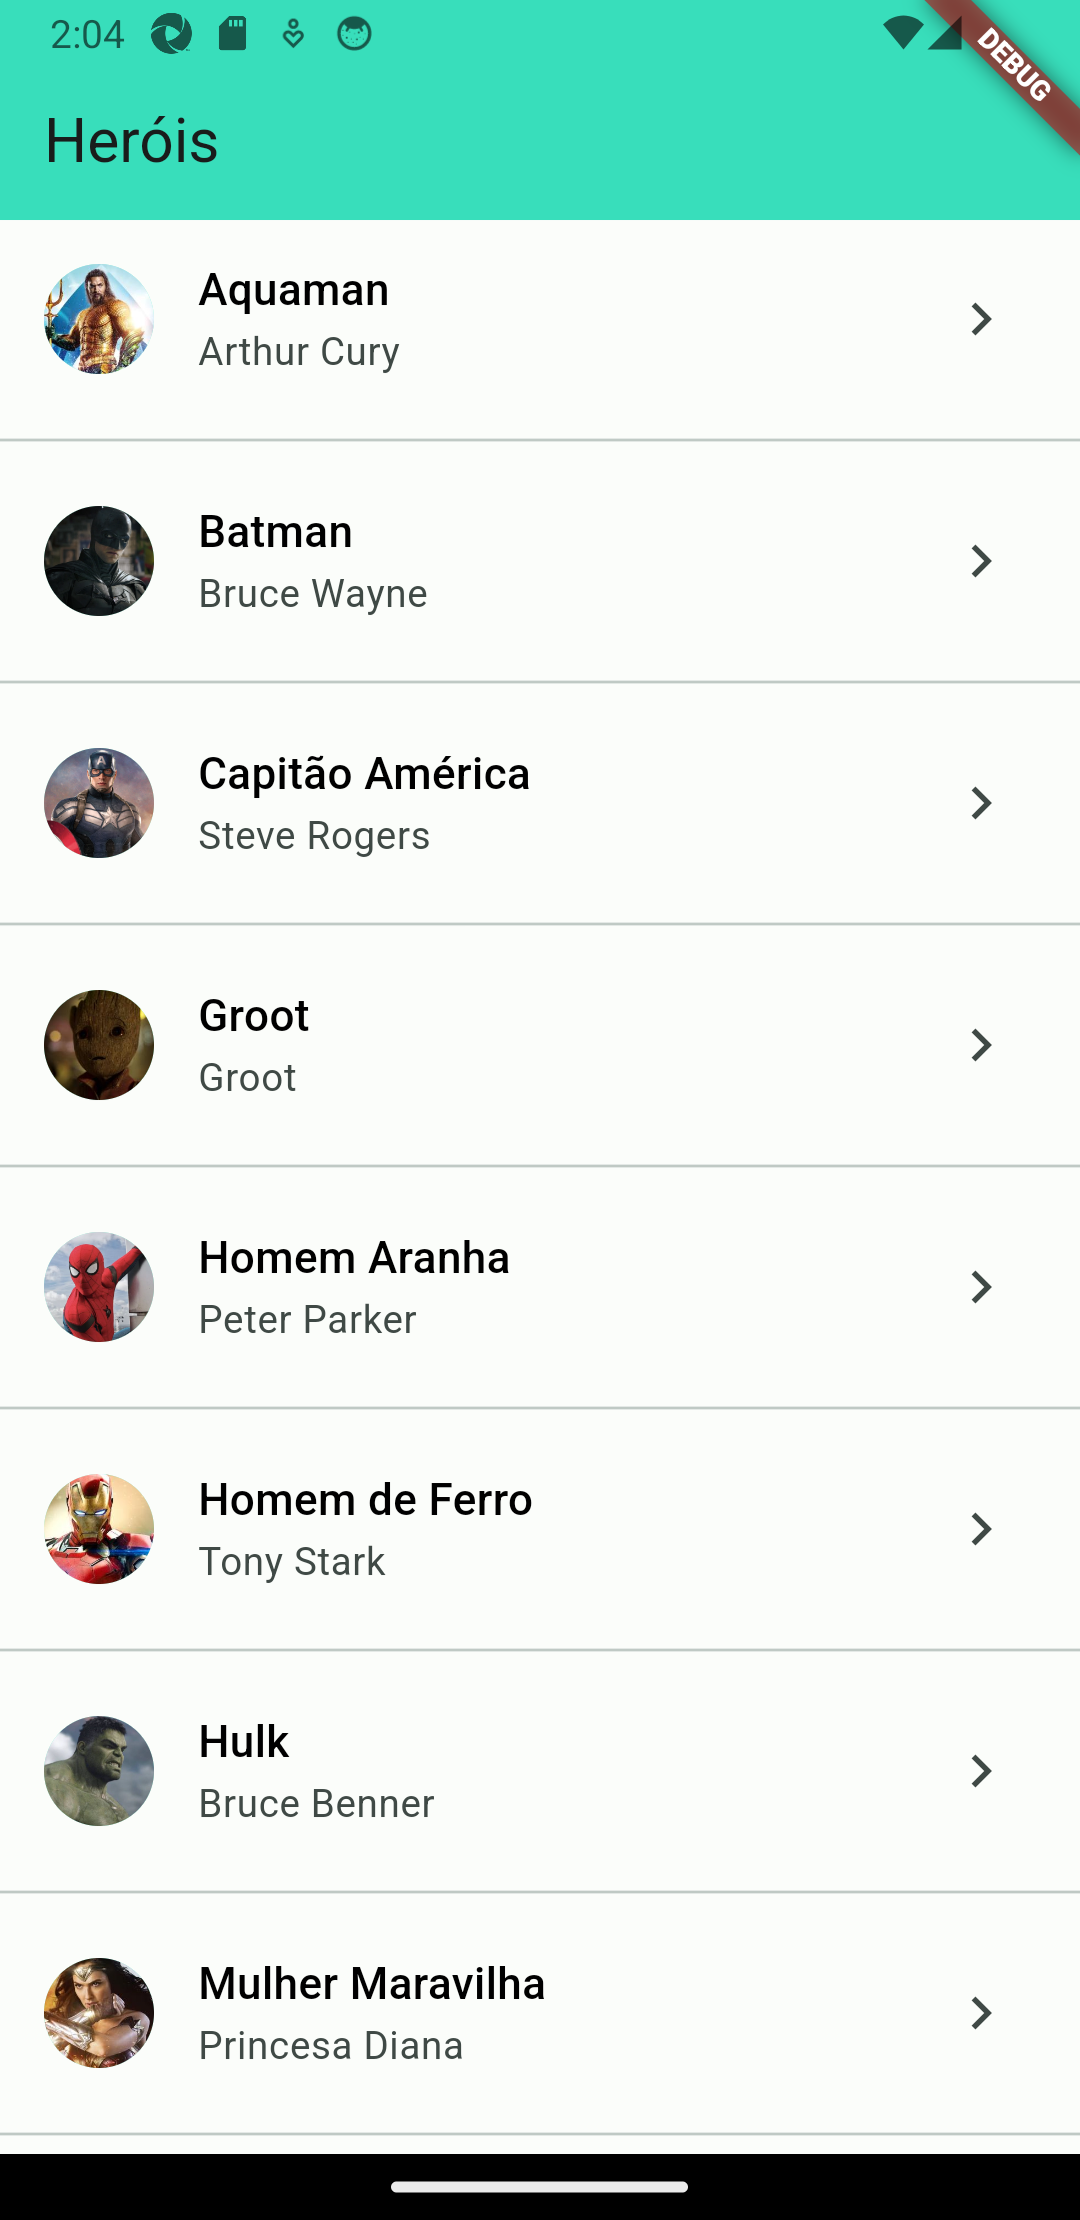
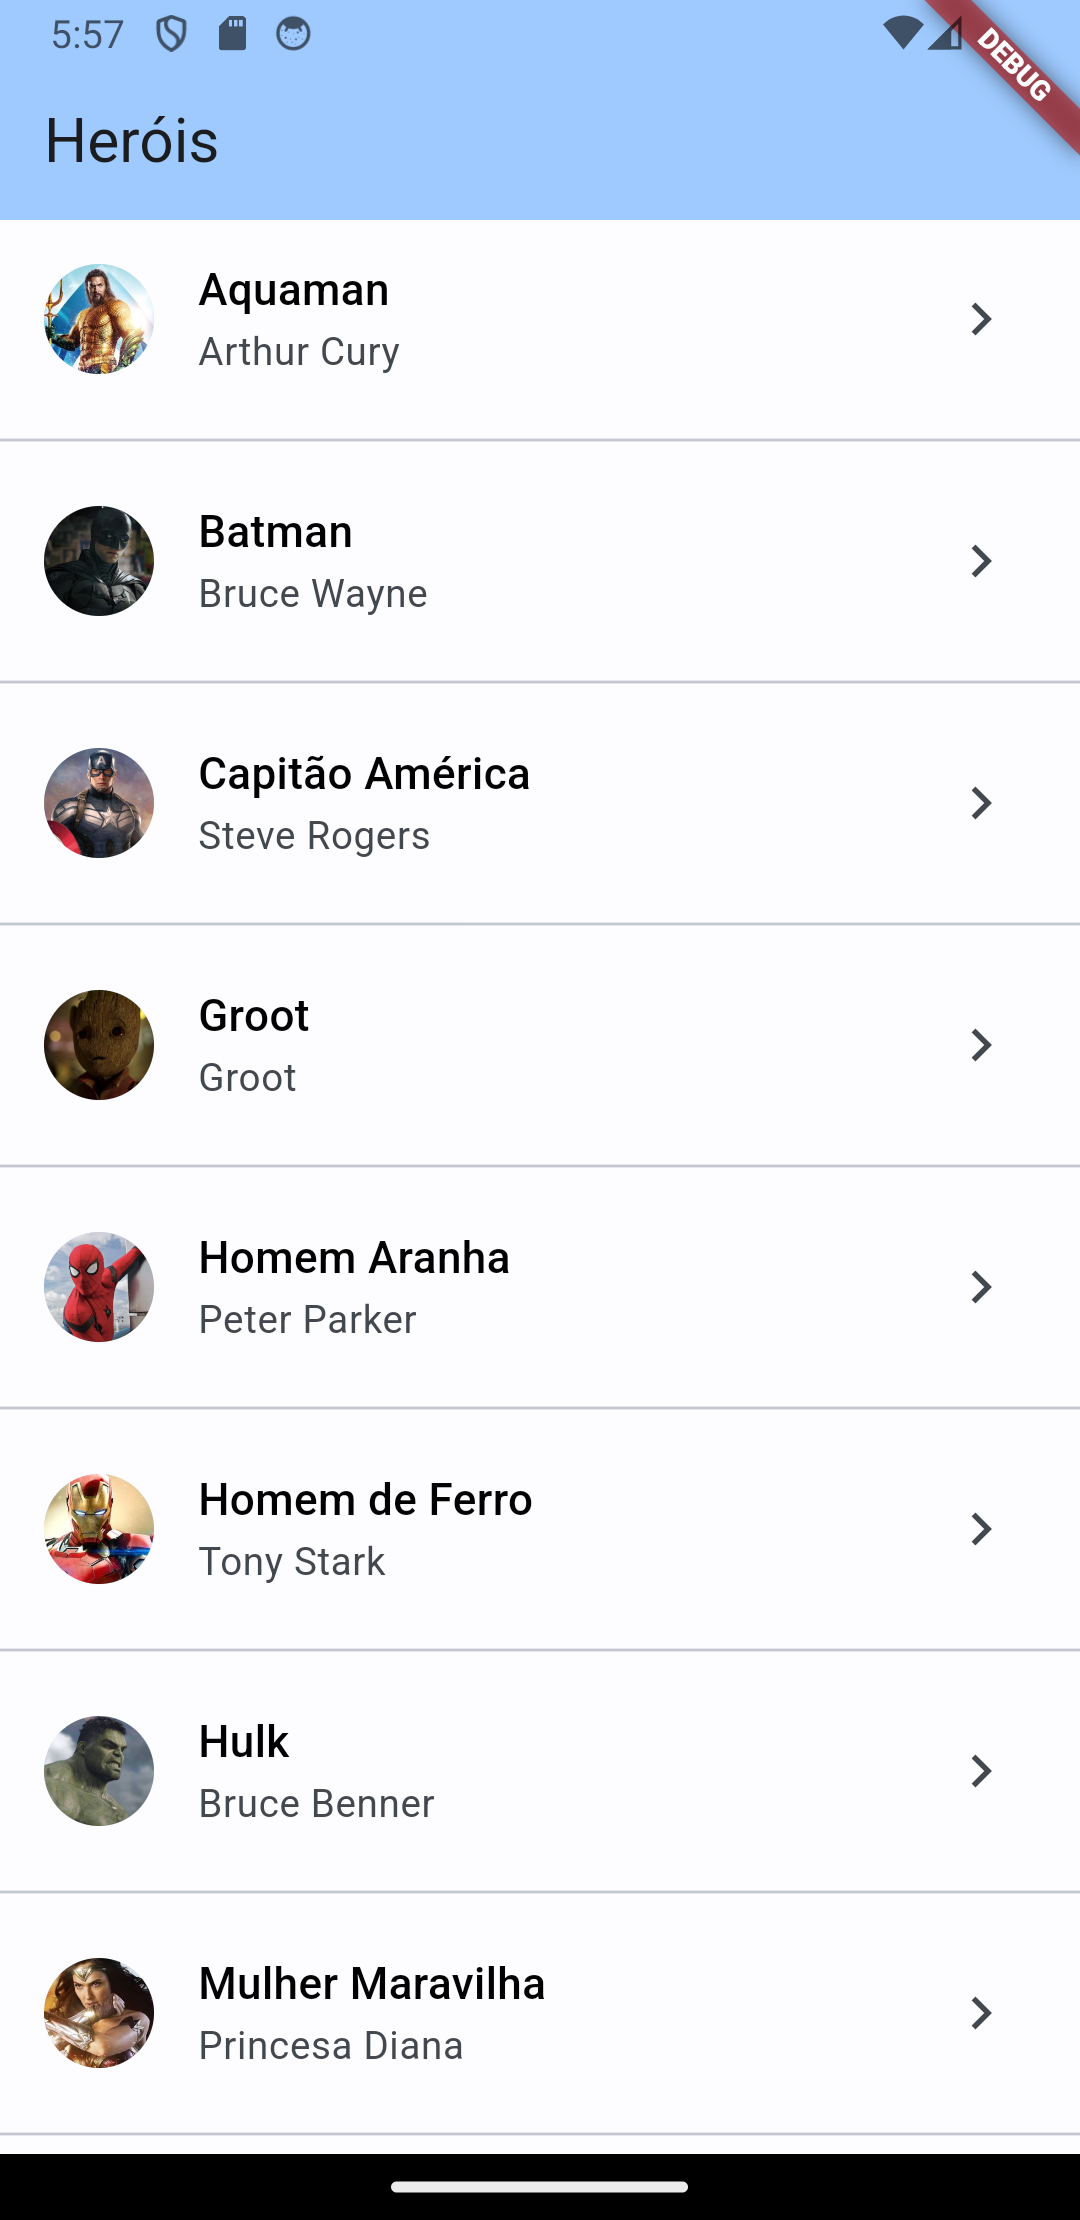
Novos heróis

Changed region(s): [[0.0, 0.0, 1.0, 0.1243]]

diff --git a/lib/main.dart b/lib/main.dart
@@ -13,7 +13,7 @@ class MyApp extends StatelessWidget {
     return MaterialApp(
       title: 'Heróis',
       theme: ThemeData(
-        colorScheme: ColorScheme.fromSeed(seedColor: Colors.tealAccent),
+        colorScheme: ColorScheme.fromSeed(seedColor: Colors.blue),
         useMaterial3: true,
       ),
       home: const HeroList(title: 'Heróis'),

diff --git a/README.md b/README.md
@@ -16,7 +16,7 @@ For help getting started with Flutter development, view the
 samples, guidance on mobile development, and a full API reference.
 
 ## Screenshots
-<img src="https://github.com/rlhorochovec/app_heroi_flutter/blob/develop/screenshots/hero_list.png" width="250" /> <img src="https://github.com/rlhorochovec/app_heroi_flutter/blob/develop/screenshots/hero_detail.png" width="250" />
+<img src="https://github.com/rlhorochovec/app_heroi_flutter/blob/develop/screenshots/hero_list.png" width="250" /> <img src="https://github.com/rlhorochovec/app_heroi_flutter/blob/develop/screenshots/hero_detail_01.png" width="250" /> <img src="https://github.com/rlhorochovec/app_heroi_flutter/blob/develop/screenshots/hero_detail_02.png" width="250" />
 
 ## Demonstração
 
